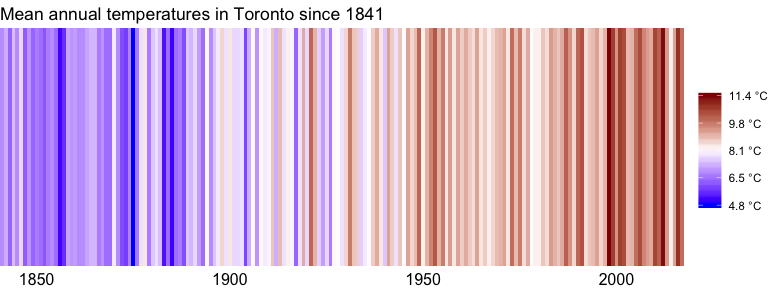
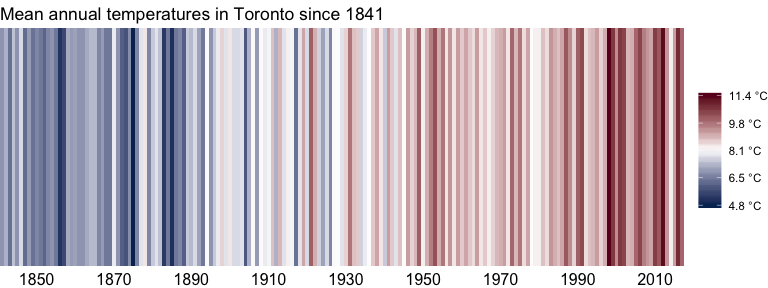
update readme plots

diff --git a/README.md b/README.md
@@ -27,16 +27,16 @@ Usage
 library(cantempr)
 ```
 
-##### Fetch data
+#### Fetch data
 
 Temperature data is available at monthly, seasonal, and annual intervals.
 
 ``` r
 # get data for monthly intervals
-temp_month <- cantemp_fetch(interval = "monthly")
+temp_monthly <- cantemp_fetch(interval = "monthly")
 
 # get data for seasonal intervals
-temp_season <- cantemp_fetch(interval = "seasonal")
+temp_seasonal <- cantemp_fetch(interval = "seasonal")
 
 # get data for annual intervals
 temp_annual <- cantemp_fetch(interval = "annual")
@@ -58,7 +58,7 @@ head(temp_annual)
 #> 6   BC SHAWNIGAN LAKE 1017230 1919   Annual  8.7    a
 ```
 
-##### Example plot
+#### Barcode plot
 
 Here's an example ['barcode plot'](https://www.cbc.ca/news/technology/charts-climate-change-bar-codes-1.4802293) using a time-series of mean annual temperatures in Toronto, Ontario.
 
@@ -66,24 +66,35 @@ Here's an example ['barcode plot'](https://www.cbc.ca/news/technology/charts-cli
 library(ggplot2)
 
 # subset annual temperature data to Toronto
-to_annual <- subset(temp_annual, station == "TORONTO" & !is.na(temp))
+temp_to <- subset(temp_annual, station == "TORONTO")
 
-# create 'barcode plot'
-ggplot(to_annual, aes(year, 1, fill = temp)) +
-  geom_tile() +
-  scale_x_continuous(expand = c(0, 0)) +
-  scale_y_continuous(expand = c(0.02, 0)) +
-  scale_fill_gradient2(low = "blue", high = "darkred",
-                       midpoint = mean(to_annual$temp),
-                       breaks = function(x) seq(x[1], x[2], length.out = 5),
-                       labels = function(x) paste(formatC(x, format = "f", digits = 1), "\u00B0C"),
-                       name = NULL) +
-  ggtitle(paste("Mean annual temperatures in Toronto since", min(to_annual$year))) +
-  theme_void() +
-  theme(axis.text.x = element_text(), legend.margin = margin(0, 0, 0, 5))
+# create barcode plot
+cantemp_barcode(temp_to, x_breaks = seq(1850, 2010, 20)) +
+  ggtitle(paste("Mean annual temperatures in Toronto since", min(temp_to$year)))
 ```
 
 ![](man/img/unnamed-chunk-6-1.png)
+
+#### Seasonal temperature trends
+
+Here's a more traditional plot of long-term temperature trends, by season, in Hay River, Northwest Territories.
+
+``` r
+# subset to seasonal temperature data for Hay River, Northwest Territories
+temp_hr <- subset(temp_seasonal, station == "HAY RIVER" & !is.na(temp))
+
+# plot
+ggplot(temp_hr, aes(year, temp)) +
+  geom_line() +
+  geom_smooth(method = "loess") +
+  scale_x_continuous(breaks = seq(1900, 2020, 20)) +
+  scale_y_continuous(labels = function(x) paste0(x, "\u00B0C")) +
+  facet_wrap(~ interval, ncol = 2, scales = "free_y") +
+  ggtitle(paste("Mean seasonal temperatures in Hay River, NWT, since", min(temp_hr$year))) +
+  theme_minimal() + theme(axis.title = element_blank())
+```
+
+![](man/img/unnamed-chunk-7-1.png)
 
 Contributions
 -------------
